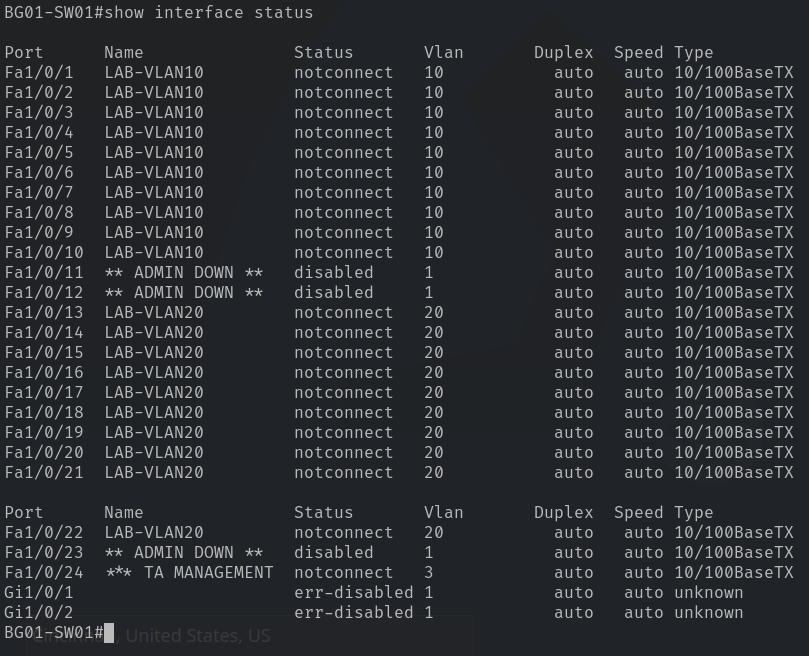
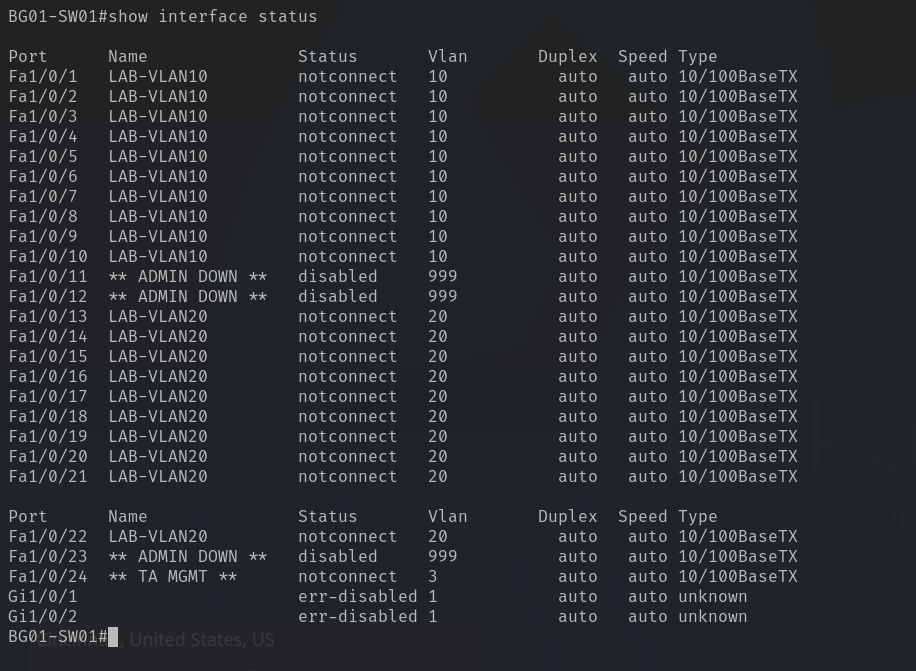
feat(lab01 setup): assign ports to vlans

diff --git a/docs/lab01-v2.0.0/config-setup.md b/docs/lab01-v2.0.0/config-setup.md
@@ -242,7 +242,7 @@ Copy the config by running `copy running-config startup-config`.
 
 ## Student Port --> VLAN Configuration
 
-As mentioned in the [Lab 01 Overview](overview.md), and consistent with the configuration above, two student VLANs will be configured:
+As mentioned in the [Lab 01 Overview](overview.md), and consistent with the configuration above, two student VLANs and one bricked VLAN will be configured:
 
 ```cisco.ios
 configure terminal
@@ -258,18 +258,14 @@ interface range FastEthernet1/0/1 - 10
   no shutdown
 exit
 
-# Administratively set ports 11 & 12 down
+# Brick and Administratively set ports 11 & 12 down
 interface range FastEthernet1/0/11 - 12
   description ** ADMIN DOWN **
+  switchport mode access
+  switchport access vlan 999
   shutdown
 exit
-```
 
-![Terminal commands to set student VLAN 10](/media/lab01/ports-vlan10.png)
-
-As seen from the screenshot, there is confirmation that ports 11 & 12 have been set down. Cisco logs reported both ports set administratively down. Next, follow relatively the same steps to configure ports 13-22 for `vlan 20`:
-
-```cisco.ios
 # This will configure ports 13-22 to VLAN 20
 interface range FastEthernet1/0/13 - 22
   description LAB-VLAN20
@@ -281,7 +277,7 @@ interface range FastEthernet1/0/13 - 22
   no shutdown
 exit
 
-# Administratively set port 23 down
+# Brick and Administratively set port 23 down
 interface FastEthernet1/0/23
   description ** ADMIN DOWN **
   switchport mode access
@@ -292,7 +288,17 @@ exit
 end
 ```
 
-![Terminal commands to set student VLAN 20](/media/lab01/ports-vlan20.png)
+![Cisco IOS commands to assign all ports respective VLAN](/media/lab01/ports-vlan-assignment.png)
+
+The port assignment configured is as follows:
+
+- `Fa1/0/1-10`: VLAN 10
+- `Fa1/0/11,12`: Bricked
+- `Fa1/0/13-22`: VLAN 20
+- `Fa1/0/23`: Bricked
+- `Fa1/0/24`: Dedicated management failsafe port
+
+`VLAN 999` is intentionally designed to never be used. This VLAN is acting as if a "parking lot" for unused ports. This is another security measure that is put in place - deliberately assign unused ports to an isolated VLAN. With a maximum student count of ~40, and 4 switches being deployed in Lab 01, leaving 20 ports open per switch is a good mix between being secure while also allowing for some breathing room say there is a large group.
 
 ### Student VLAN Verification
 
